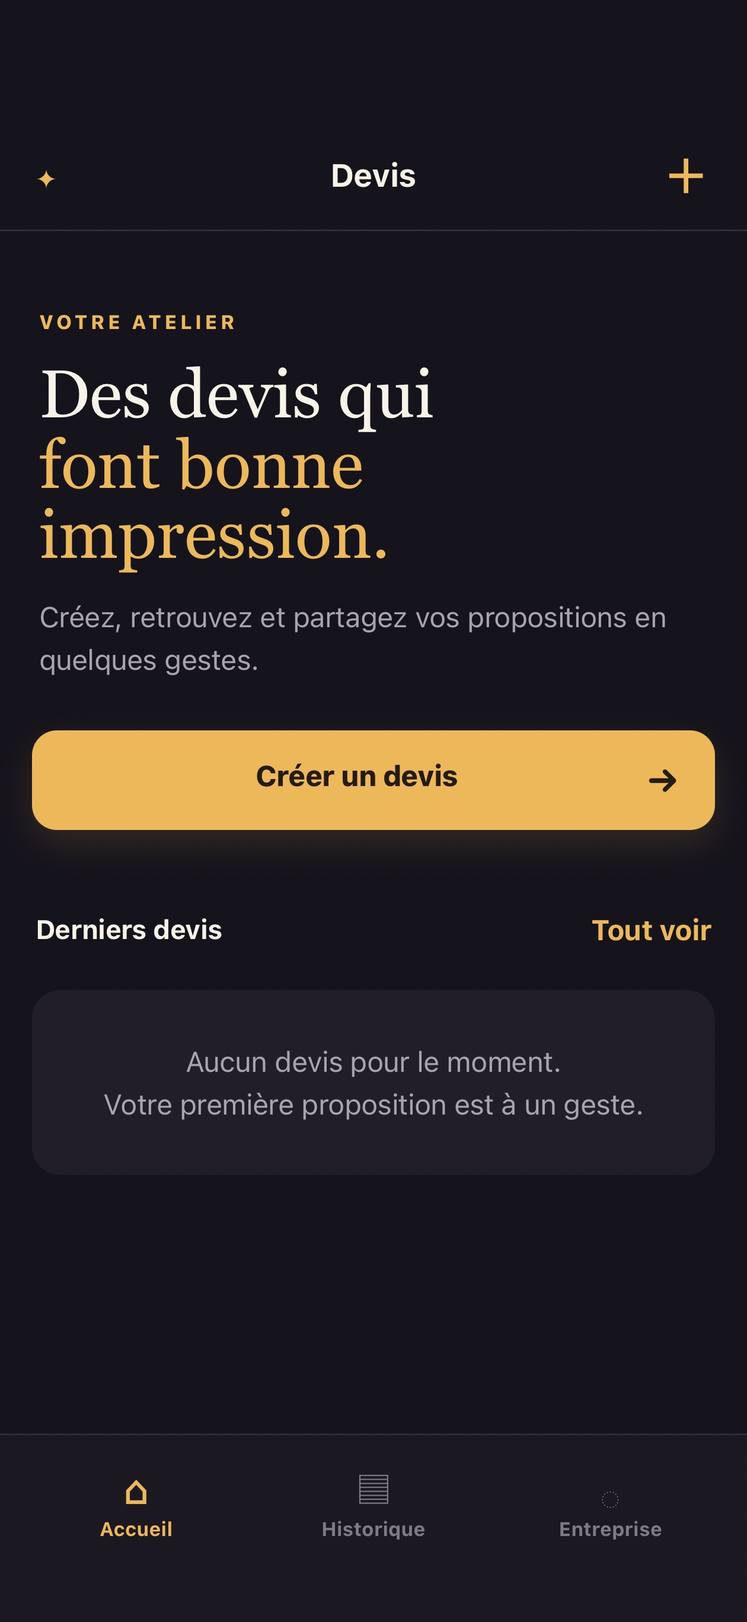
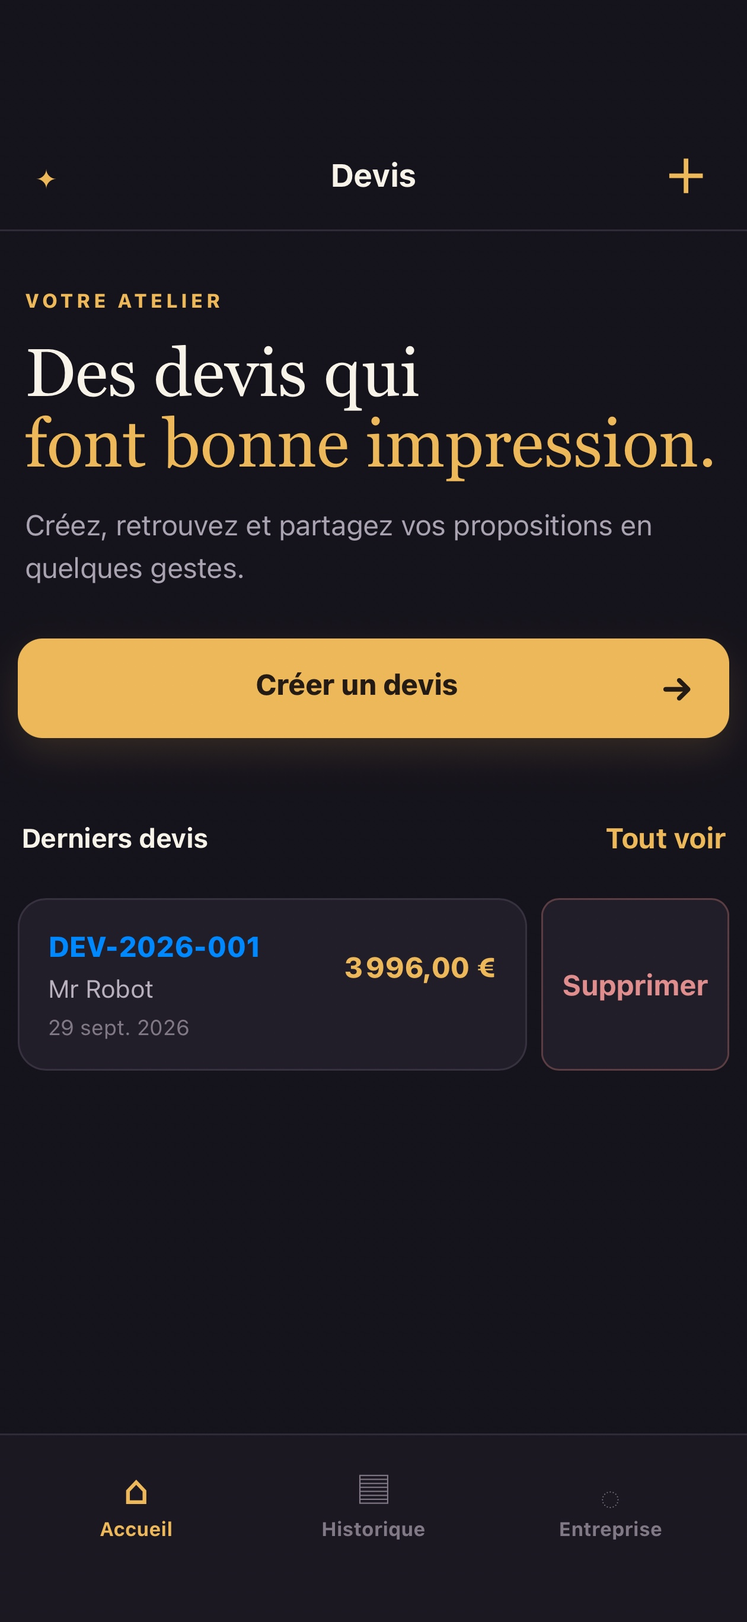
Publie Créateur de devis

diff --git a/createur-de-devis/app.js b/createur-de-devis/app.js
@@ -8,28 +8,29 @@ function toast(msg){const t=$('#toast');t.textContent=msg;t.classList.add('show'
 function dateFr(v){if(!v)return '—';return new Date(v+'T12:00:00').toLocaleDateString('fr-FR',{day:'numeric',month:'short',year:'numeric'});}
 function totals(q){const sub=q.lines.reduce((a,l)=>a+(Number(l.qty)||0)*(Number(l.price)||0),0), rem=sub*(Number(q.discount)||0)/100, net=sub-rem, vat=net*(Number(q.vat)||0)/100;return {sub,rem,net,vat,total:net+vat};}
 function nextRef(){const y=new Date().getFullYear();return `DEV-${y}-${String(state.quotes.length+1).padStart(3,'0')}`}
-function showView(name){$$('.view').forEach(v=>v.classList.toggle('active',v.id===name+'View'));$$('.tab').forEach(t=>t.classList.toggle('active',t.dataset.tab===name));$('#headerAction').style.display=name==='home'||name==='history'?'block':'none';$('#pageTitle').textContent=name==='company'?'Entreprise':name==='history'?'Historique':name==='editor'?'Nouveau devis':name==='detail'?'Devis':'Devis';$('#app').scrollTop=0;}
-function quoteCard(q){const x=totals(q);const d=document.createElement('button');d.className='quote-card';d.type='button';d.dataset.open=q.id;d.innerHTML=`<span class="quote-ref">${esc(q.reference)}</span><span class="quote-total">${euro(x.total)}</span><span class="quote-client">${esc(q.clientName||'Client non renseigné')}</span><span class="quote-date">${dateFr(q.date)}</span>`;return d}
+function showView(name){$$('.view').forEach(v=>v.classList.toggle('active',v.id===name+'View'));$$('.tab').forEach(t=>t.classList.toggle('active',t.dataset.tab===name));$('#headerAction').style.display=name==='home'||name==='history'?'block':'none';$('#pageTitle').textContent=name==='company'?'Entreprise':name==='history'?'Historique':name==='editor'?'Nouveau devis':name==='detail'?'Devis':'Devis';$('#app').style.transform='translateX(0)';$('#app').scrollTop=0;}
+function quoteCard(q){const x=totals(q);const wrap=document.createElement('div');wrap.className='quote-entry';const d=document.createElement('button');d.className='quote-card';d.type='button';d.dataset.open=q.id;d.innerHTML=`<span class="quote-ref">${esc(q.reference)}</span><span class="quote-total">${euro(x.total)}</span><span class="quote-client">${esc(q.clientName||'Client non renseigné')}</span><span class="quote-date">${dateFr(q.date)}</span>`;const del=document.createElement('button');del.className='quote-delete';del.type='button';del.dataset.delete=q.id;del.setAttribute('aria-label',`Supprimer le devis ${q.reference}`);del.textContent='Supprimer';wrap.append(d,del);return wrap}
 function renderLists(){['recentQuotes','allQuotes'].forEach(id=>{const el=$('#'+id);el.replaceChildren();const arr=id==='recentQuotes'?state.quotes.slice(-3).reverse():[...state.quotes].reverse();if(!arr.length){el.innerHTML='<div class="empty">Aucun devis pour le moment.<br>Votre première proposition est à un geste.</div>';}else arr.forEach(q=>el.append(quoteCard(q)));});}
 function esc(s){return String(s??'').replace(/[&<>"']/g,c=>({'&':'&amp;','<':'&lt;','>':'&gt;','"':'&quot;',"'":'&#039;'}[c]));}
 function fillCompany(){const f=$('#companyForm');Object.entries(state.company||{}).forEach(([k,v])=>{if(f.elements[k]&&k!=='logo')f.elements[k].value=v||'';});$('#logoName').textContent=state.company.logoName?`Logo sélectionné : ${state.company.logoName}`:'';}
-function openEditor(q){editingId=q?.id||null;showView('editor');$('#editLabel').textContent=q?'MODIFIER LE DEVIS':'NOUVEAU DEVIS';const f=$('#quoteForm');f.reset();f.elements.reference.value=q?.reference||nextRef();f.elements.date.value=q?.date||new Date().toISOString().slice(0,10);f.elements.validity.value=q?.validity||30;f.elements.discount.value=q?.discount??0;f.elements.vat.value=q?.vat??20;f.elements.clientName.value=q?.clientName||'';f.elements.clientEmail.value=q?.clientEmail||'';f.elements.clientAddress.value=q?.clientAddress||'';f.elements.terms.value=q?.terms||'';f.elements.note.value=q?.note||'';const lines=$('#lineItems');lines.replaceChildren();(q?.lines?.length?q.lines:[{description:'',qty:1,price:0}]).forEach(addLine);updateTotals();}
+function openEditor(q){editingId=q?.id||null;showView('editor');$('#editLabel').textContent=q?'MODIFIER LE DEVIS':'NOUVEAU DEVIS';const f=$('#quoteForm');f.reset();f.elements.reference.value=q?.reference||nextRef();f.elements.date.value=q?.date||new Date().toISOString().slice(0,10);f.elements.validity.value=q?.validity||30;f.elements.discount.value=q?.discount??0;f.elements.vat.value=q?.vat??20;f.elements.recipientCompany.value=q?.recipientCompany||'';f.elements.clientName.value=q?.clientName||'';f.elements.clientEmail.value=q?.clientEmail||'';f.elements.clientAddress.value=q?.clientAddress||'';f.elements.terms.value=q?.terms||'';f.elements.note.value=q?.note||'';const lines=$('#lineItems');lines.replaceChildren();(q?.lines?.length?q.lines:[{description:'',qty:1,price:0}]).forEach(addLine);updateTotals();}
 function addLine(line={description:'',qty:1,price:0}){const el=document.createElement('div');el.className='line';el.innerHTML=`<button type="button" class="remove" aria-label="Supprimer cette ligne">×</button><div class="line-grid"><label>Description<input class="desc" required value="${esc(line.description)}" placeholder="Prestation ou produit"></label><label>Quantité<input class="qty" type="number" min="0" step="0.01" value="${line.qty}"></label></div><div class="line-unit"><label>Prix unitaire HT<input class="price" type="number" min="0" step="0.01" value="${line.price}"></label><div class="line-subtotal"><small>Sous-total</small><strong>${euro((line.qty||0)*(line.price||0))}</strong></div></div>`;el.querySelector('.remove').addEventListener('click',()=>{if($$('.line').length>1){el.remove();updateTotals();}});el.querySelectorAll('input').forEach(i=>i.addEventListener('input',updateTotals));$('#lineItems').append(el);}
 function readLines(){return $$('.line').map(el=>({description:el.querySelector('.desc').value,qty:Number(el.querySelector('.qty').value)||0,price:Number(el.querySelector('.price').value)||0}));}
 function updateTotals(){const f=$('#quoteForm');const q={lines:readLines(),discount:f.elements.discount?.value||0,vat:f.elements.vat?.value||0};const x=totals(q);$$('.line').forEach(el=>el.querySelector('.line-subtotal strong').textContent=euro((Number(el.querySelector('.qty').value)||0)*(Number(el.querySelector('.price').value)||0)));$('#liveTotals').innerHTML=`<div class="total-row"><span>Sous-total HT</span><strong>${euro(x.sub)}</strong></div><div class="total-row"><span>Remise</span><strong>− ${euro(x.rem)}</strong></div><div class="total-row"><span>TVA (${Number(q.vat)||0} %)</span><strong>${euro(x.vat)}</strong></div><div class="total-row grand"><span>Total TTC</span><strong>${euro(x.total)}</strong></div>`;}
-function preview(q){const x=totals(q),c=state.company||{};const company=[c.name?`<strong>${esc(c.name)}</strong>`:'',c.address,[c.zip,c.city].filter(Boolean).join(' '),c.email?'e-mail : '+c.email:'',c.phone?'TEL : '+c.phone:''].filter(Boolean).map((v,i)=>i===0?v:esc(v)).join('<br>');const legal=[c.name,c.legalForm,c.capital?'Capital : '+c.capital:'',c.address,[c.zip,c.city].filter(Boolean).join(' '),c.siret?'SIRET : '+c.siret:'',c.vatNumber?'TVA : '+c.vatNumber:'',c.phone?'TEL : '+c.phone:'',c.email?'e-mail : '+c.email:''].filter(Boolean).map(esc).join(' · ');const logo=c.logo?`<img class="p-logo" src="${esc(c.logo)}" alt="Logo de l’entreprise">`:'';const rows=q.lines.map(l=>`<tr><td>${esc(l.description)}</td><td>${l.qty}</td><td>${euro(l.price)}</td><td>${euro(l.qty*l.price)}</td></tr>`).join('');return `<div class="preview" id="apercu"><div class="p-head"><div><h2>DEVIS</h2><small>${esc(q.reference)} · émis le ${dateFr(q.date)}<br>Valable ${q.validity} jours</small>${q.clientName?`<div style="margin-top:10px"><strong>${esc(q.clientName)}</strong></div>`:''}</div><div style="text-align:right;font-size:12px">${logo}${company||'Votre entreprise'}</div></div><h3>Pour</h3><div>${esc(q.clientName)}${q.clientEmail?'<br>'+esc(q.clientEmail):''}${q.clientAddress?'<br>'+esc(q.clientAddress).replace(/\n/g,'<br>'):''}</div><table><thead><tr><th>Désignation</th><th>Qté</th><th>PU HT</th><th>Total HT</th></tr></thead><tbody>${rows}</tbody></table><div class="p-total"><div><span>Sous-total HT</span><span>${euro(x.sub)}</span></div><div><span>Remise</span><span>− ${euro(x.rem)}</span></div><div><span>TVA (${q.vat} %)</span><span>${euro(x.vat)}</span></div><div class="big"><span>Total TTC</span><span>${euro(x.total)}</span></div></div>${q.terms?`<div class="terms"><b>Conditions de paiement</b><br>${esc(q.terms)}</div>`:''}${q.note?`<div class="terms">${esc(q.note)}</div>`:''}<div class="p-footer">${legal||'Informations légales de l’entreprise'}</div></div>`}
-function previewText(q){const x=totals(q);const lines=q.lines.map(l=>`- ${l.description} — ${l.qty} × ${euro(l.price)} = ${euro(l.qty*l.price)}`).join('\n');return `DEVIS ${q.reference}\nÉmis le ${dateFr(q.date)} · Valable ${q.validity} jours\n\nPour : ${q.clientName}${q.clientEmail?'\n'+q.clientEmail:''}${q.clientAddress?'\n'+q.clientAddress:''}\n\n${lines}\n\nSous-total HT : ${euro(x.sub)}\nRemise : − ${euro(x.rem)}\nTVA (${q.vat} %) : ${euro(x.vat)}\nTOTAL TTC : ${euro(x.total)}${q.terms?'\n\nConditions de paiement\n'+q.terms:''}${q.note?'\n\n'+q.note:''}`;}
-function openDetail(id){detailId=id;const q=state.quotes.find(x=>x.id===id);if(!q)return;showView('detail');$('#detailContent').innerHTML=`<p class="eyebrow">${esc(q.reference)}</p><h2 id="detailHeading" style="font-family:Georgia,serif;font-size:30px;margin:0 0 4px">${esc(q.clientName)}</h2><p class="muted">${dateFr(q.date)} · ${euro(totals(q).total)} TTC</p>${preview(q)}<div style="display:flex;gap:8px;margin-top:12px"><button class="outline" id="editDetail">Modifier</button><button class="outline" id="duplicateDetail">Dupliquer</button></div><button class="danger" id="deleteDetail">Supprimer ce devis</button>`;const logo=$('#apercu .p-logo');if(logo)logo.addEventListener('error',()=>logo.remove());$('#editDetail').onclick=()=>openEditor(q);$('#duplicateDetail').onclick=()=>{const copy=JSON.parse(JSON.stringify(q));copy.id=crypto.randomUUID?crypto.randomUUID():String(Date.now());copy.reference=nextRef();state.quotes.push(copy);save();renderLists();openDetail(copy.id);toast('Devis dupliqué')};$('#deleteDetail').onclick=()=>{if(confirm('Supprimer ce devis ?')){state.quotes=state.quotes.filter(x=>x.id!==id);save();renderLists();showView('history');toast('Devis supprimé')}}}
+function preview(q){const x=totals(q),c=state.company||{};const company=[c.name?`<strong>${esc(c.name)}</strong>`:'',c.address,[c.zip,c.city].filter(Boolean).join(' '),c.email?'e-mail : '+c.email:'',c.phone?'TEL : '+c.phone:''].filter(Boolean).map((v,i)=>i===0?v:esc(v)).join('<br>');const legal=[c.name,c.legalForm,c.capital?'Capital : '+c.capital:'',c.address,[c.zip,c.city].filter(Boolean).join(' '),c.siret?'SIRET : '+c.siret:'',c.vatNumber?'TVA : '+c.vatNumber:'',c.phone?'TEL : '+c.phone:'',c.email?'e-mail : '+c.email:''].filter(Boolean).map(esc).join(' · ');const logo=c.logo?`<img class="p-logo" src="${esc(c.logo)}" alt="Logo de l’entreprise">`:'';const rows=q.lines.map(l=>`<tr><td>${esc(l.description)}</td><td>${l.qty}</td><td>${euro(l.price)}</td><td>${euro(l.qty*l.price)}</td></tr>`).join('');return `<div class="preview" id="apercu"><div class="p-head"><div><h2>DEVIS</h2><small>${esc(q.reference)} · émis le ${dateFr(q.date)}<br>Valable ${q.validity} jours</small>${q.recipientCompany?`<div style="margin-top:10px"><strong>${esc(q.recipientCompany)}</strong></div>`:''}</div><div style="text-align:right;font-size:12px">${logo}${company||'Votre entreprise'}</div></div><h3>Pour</h3><div>${q.recipientCompany?`<strong>${esc(q.recipientCompany)}</strong><br>`:''}${esc(q.clientName)}${q.clientEmail?'<br>'+esc(q.clientEmail):''}${q.clientAddress?'<br>'+esc(q.clientAddress).replace(/\n/g,'<br>'):''}</div><table><thead><tr><th>Désignation</th><th>Qté</th><th>PU HT</th><th>Total HT</th></tr></thead><tbody>${rows}</tbody></table><div class="p-total"><div><span>Sous-total HT</span><span>${euro(x.sub)}</span></div><div><span>Remise</span><span>− ${euro(x.rem)}</span></div><div><span>TVA (${q.vat} %)</span><span>${euro(x.vat)}</span></div><div class="big"><span>Total TTC</span><span>${euro(x.total)}</span></div></div>${q.terms?`<div class="terms"><b>Conditions de paiement</b><br>${esc(q.terms)}</div>`:''}${q.note?`<div class="terms">${esc(q.note)}</div>`:''}<div class="p-footer">${legal||'Informations légales de l’entreprise'}</div></div>`}
+function previewText(q){const x=totals(q);const lines=q.lines.map(l=>`- ${l.description} — ${l.qty} × ${euro(l.price)} = ${euro(l.qty*l.price)}`).join('\n');return `DEVIS ${q.reference}\nÉmis le ${dateFr(q.date)} · Valable ${q.validity} jours\n\nPour : ${q.recipientCompany?`\n${q.recipientCompany}`:''}\n${q.clientName}${q.clientEmail?'\n'+q.clientEmail:''}${q.clientAddress?'\n'+q.clientAddress:''}\n\n${lines}\n\nSous-total HT : ${euro(x.sub)}\nRemise : − ${euro(x.rem)}\nTVA (${q.vat} %) : ${euro(x.vat)}\nTOTAL TTC : ${euro(x.total)}${q.terms?'\n\nConditions de paiement\n'+q.terms:''}${q.note?'\n\n'+q.note:''}`;}
+function openDetail(id){detailId=id;const q=state.quotes.find(x=>x.id===id);if(!q)return;showView('detail');$('#detailContent').innerHTML=`<p class="eyebrow">${esc(q.reference)}</p><h2 id="detailHeading" style="font-family:Georgia,serif;font-size:30px;margin:0 0 4px">${esc(q.recipientCompany||q.clientName)}</h2><p class="muted">${dateFr(q.date)} · ${euro(totals(q).total)} TTC</p>${preview(q)}<div style="display:flex;gap:8px;margin-top:12px"><button class="outline" id="editDetail">Modifier</button><button class="outline" id="duplicateDetail">Dupliquer</button></div><button class="danger" id="deleteDetail">Supprimer ce devis</button>`;const logo=$('#apercu .p-logo');if(logo)logo.addEventListener('error',()=>logo.remove());$('#editDetail').onclick=()=>openEditor(q);$('#duplicateDetail').onclick=()=>{const copy=JSON.parse(JSON.stringify(q));copy.id=crypto.randomUUID?crypto.randomUUID():String(Date.now());copy.reference=nextRef();state.quotes.push(copy);save();renderLists();openDetail(copy.id);toast('Devis dupliqué')};$('#deleteDetail').onclick=()=>deleteQuote(id,'history')}
+function deleteQuote(id,view='history'){const q=state.quotes.find(x=>x.id===id);if(!q)return;const old=$('#deleteConfirm');if(old)old.remove();const dialog=document.createElement('div');dialog.id='deleteConfirm';dialog.setAttribute('role','dialog');dialog.setAttribute('aria-modal','true');dialog.setAttribute('aria-labelledby','deleteConfirmTitle');dialog.style.cssText='position:fixed;inset:0;z-index:20;background:#15131bcc;display:flex;align-items:center;justify-content:center;padding:20px';dialog.innerHTML=`<div style="width:min(100%,360px);background:#211e29;border:1px solid #5b3d43;border-radius:16px;padding:22px;box-shadow:0 16px 40px #0008"><h2 id="deleteConfirmTitle" style="font-size:19px;margin:0 0 10px">Supprimer ce devis ?</h2><p style="color:#b9b1bd;line-height:1.45;margin:0 0 20px">Le devis « ${esc(q.reference)} » sera supprimé définitivement de cet appareil.</p><div style="display:flex;gap:10px;justify-content:flex-end"><button type="button" data-cancel-delete style="min-height:44px;border:1px solid #5b4c3c;border-radius:10px;background:transparent;color:#edb85a;padding:0 14px;font-weight:700">Annuler</button><button type="button" data-confirm-delete style="min-height:44px;border:0;border-radius:10px;background:#df8e8e;color:#241b15;padding:0 14px;font-weight:800">Supprimer</button></div></div>`;document.body.append(dialog);const close=()=>dialog.remove();dialog.querySelector('[data-cancel-delete]').addEventListener('click',close);dialog.querySelector('[data-confirm-delete]').addEventListener('click',()=>{state.quotes=state.quotes.filter(x=>x.id!==id);save();renderLists();close();showView(view);toast('Devis supprimé')});dialog.addEventListener('click',e=>{if(e.target===dialog)close()});dialog.querySelector('[data-confirm-delete]').focus();}
 function formObject(f){return Object.fromEntries(new FormData(f).entries())}
 $('#companyForm').addEventListener('submit',e=>{e.preventDefault();const data=formObject(e.target);data.logo=state.company.logo||'';data.logoName=state.company.logoName||'';state.company=data;save();$('#companySaved').textContent='Coordonnées enregistrées ✓';toast('Entreprise mise à jour');});
 $('#logoPicker').addEventListener('click',async()=>{try{const picked=await creativeBoard.media.file();if(picked){state.company.logo=picked.dataUrl;state.company.logoName=picked.name||'fichier importé';save();$('#logoName').textContent=`Logo sélectionné : ${state.company.logoName}`;toast('Logo importé')}}catch(e){toast('Import du logo indisponible : '+e)}});
 $('#quoteForm').addEventListener('submit',e=>{e.preventDefault();const d=formObject(e.target);const q={...d,id:editingId||((crypto.randomUUID&&crypto.randomUUID())||String(Date.now())),lines:readLines(),discount:Number(d.discount)||0,vat:Number(d.vat)||0,validity:Number(d.validity)||30};const ix=state.quotes.findIndex(x=>x.id===q.id);if(ix>=0)state.quotes[ix]=q;else state.quotes.push(q);save();renderLists();openDetail(q.id);toast('Devis enregistré');});
 $('#addLine').onclick=()=>addLine();$$('#quoteForm input').forEach(i=>i.addEventListener('input',updateTotals));
 $('#newQuoteBtn').onclick=()=>openEditor();$('#headerAction').onclick=()=>openEditor();$('#cancelEdit').onclick=()=>showView('home');$('#closeDetail').onclick=()=>showView('history');
-$('#app').addEventListener('click',e=>{const card=e.target.closest('.quote-card');if(card)openDetail(card.dataset.open);});
+$('#app').addEventListener('click',e=>{const del=e.target.closest('[data-delete]');if(del){e.stopPropagation();deleteQuote(del.dataset.delete,'history');return}const card=e.target.closest('.quote-card');if(card)openDetail(card.dataset.open);});
 $('#savePdf').onclick=async()=>{try{const q=state.quotes.find(x=>x.id===detailId);const r=await creativeBoard.document.export({format:'pdf',title:q.reference,destination:'save',element:'#apercu'});if(r.completed!==false)toast('PDF prêt à enregistrer')}catch(e){toast('Export PDF indisponible : '+e)}};
 $('#shareQuote').onclick=async()=>{try{const q=state.quotes.find(x=>x.id===detailId);const r=await creativeBoard.document.export({format:'pdf',title:q.reference,destination:'share',element:'#apercu'});if(r.completed!==false)toast('PDF prêt à partager')}catch(e){toast('Partage du PDF indisponible : '+e)}};
 $$('[data-tab]').forEach(b=>b.addEventListener('click',()=>{showView(b.dataset.tab);renderLists()}));
 $$('.tab').forEach(b=>b.addEventListener('click',()=>showView(b.dataset.tab)));
 fillCompany();renderLists();showView('home');
-$('#app').addEventListener('touchstart',e=>{const t=e.touches[0];if(t.clientX<=28)touch={x:t.clientX,y:t.clientY,dx:0,locked:false};});$('#app').addEventListener('touchmove',e=>{if(!touch||touch.locked)return;const t=e.touches[0];const dx=t.clientX-touch.x,dy=Math.abs(t.clientY-touch.y);if(dy>Math.abs(dx)){touch.locked=true;return}if(dx>0){touch.dx=dx;$('#app').style.transform=`translateX(${dx}px)`;}});$('#app').addEventListener('touchend',()=>{if(!touch)return;const go=touch.dx>innerWidth*.45;$('#app').style.transition='transform .22s ease';$('#app').style.transform=go?'translateX(100%)':'translateX(0)';if(go){setTimeout(()=>{showView(detailId?'history':'home');$('#app').style.transition='';},180)}else setTimeout(()=>{$('#app').style.transition='';},220);touch=null;});
+$('#app').addEventListener('touchstart',e=>{const t=e.touches[0];if(t.clientX<=28)touch={x:t.clientX,y:t.clientY,dx:0,locked:false};});$('#app').addEventListener('touchmove',e=>{if(!touch||touch.locked)return;const t=e.touches[0],dx=t.clientX-touch.x,dy=Math.abs(t.clientY-touch.y);if(dy>Math.abs(dx)){touch.locked=true;return}if(dx>0){touch.dx=dx;$('#app').style.transform=`translateX(${dx}px)`;}});$('#app').addEventListener('touchend',()=>{if(!touch)return;const go=touch.dx>innerWidth*.45;$('#app').style.transition='transform .22s ease';$('#app').style.transform=go?'translateX(100%)':'translateX(0)';if(go){setTimeout(()=>{showView(detailId?'history':'home');$('#app').style.transition='';},180)}else setTimeout(()=>{$('#app').style.transition='';},220);touch=null;});

diff --git a/createur-de-devis/app.css b/createur-de-devis/app.css
@@ -1,3 +1,1 @@
-*{box-sizing:border-box}html,body{margin:0;min-height:100%;background:#15131b;color:#f8f3e9;font-family:-apple-system,BlinkMacSystemFont,"Segoe UI",sans-serif}body{overflow-x:hidden}button,input,textarea{font:inherit}button{cursor:pointer;touch-action:manipulation}.topbar{height:calc(62px + env(safe-area-inset-top));padding:env(safe-area-inset-top) 18px 0;display:flex;align-items:center;justify-content:center;position:sticky;top:0;z-index:5;background:#15131b;border-bottom:1px solid #302b38;user-select:none}.topbar h1{font-size:18px;margin:0;font-weight:700;letter-spacing:.01em}.brand-mark{position:absolute;left:20px;color:#edb85a;font-size:20px}.icon-btn{position:absolute;right:12px;background:none;border:0;color:#edb85a;font-size:31px;line-height:44px;width:44px;height:44px}.scroll-area{max-width:680px;margin:auto;padding:14px 10px calc(104px + env(safe-area-inset-bottom))}.view{display:none}.view.active{display:block}.hero{padding:18px 4px 28px}.eyebrow{color:#edb85a;font-size:11px;letter-spacing:.16em;font-weight:800;margin:0 0 14px}.hero h2,.view-intro h2{font-family:Georgia,serif;font-size:38px;line-height:1.04;margin:0 0 14px;font-weight:500}.hero h2 em{color:#edb85a;font-style:normal}.muted{color:#aaa3b1;line-height:1.5;margin:0}.primary{min-height:50px;border:0;border-radius:14px;background:#edb85a;color:#241b15;font-weight:800;padding:0 20px;width:100%;box-shadow:0 8px 20px #edb85a22}.primary span{float:right;font-size:20px}.large{min-height:56px}.section-head{display:flex;align-items:center;justify-content:space-between;margin:34px 2px 12px}.section-head h3{margin:0;font-size:15px}.text-btn,.back-btn{color:#edb85a;background:none;border:0;min-height:44px;padding:8px 0;font-weight:700}.stack{display:grid;gap:10px}.quote-card{background:#211e29;border:1px solid #37313f;border-radius:16px;padding:16px;display:grid;grid-template-columns:1fr auto;gap:5px 12px}.quote-card:active{background:#2b2634}.quote-ref{font-weight:800}.quote-client{color:#b9b1bd;font-size:14px}.quote-total{grid-row:1/3;grid-column:2;align-self:center;color:#edb85a;font-weight:800}.quote-date{font-size:12px;color:#817985}.empty{padding:28px 18px;background:#211e29;border-radius:16px;color:#aaa3b1;text-align:center;line-height:1.5}.view-intro{padding:14px 4px 24px}.view-intro h2{font-size:36px}.form-card{background:#211e29;border:1px solid #37313f;border-radius:16px;padding:18px;margin:12px 0}.form-card label{display:block;color:#b9b1bd;font-size:13px;margin-bottom:15px}.form-card label:last-of-type{margin-bottom:2px}.form-card input,.form-card textarea{display:block;width:100%;margin-top:7px;background:#17151d;border:1px solid #403949;border-radius:10px;color:#f8f3e9;padding:12px 13px;min-height:46px;outline:none}.form-card textarea{resize:vertical;min-height:72px}.form-card input:focus,.form-card textarea:focus{border-color:#edb85a}.two-col{display:grid;grid-template-columns:1fr 1fr;gap:12px}.optional{font-size:11px;color:#77707e}.saved-note{color:#86c79c;font-size:13px;min-height:18px;margin:10px 0 0}.section-title{font-weight:800;margin-bottom:16px;color:#f8f3e9}.editor-top{display:flex;align-items:center;justify-content:space-between;margin:-10px 0 22px}.editor-top>span{font-size:11px;letter-spacing:.12em;color:#aaa3b1}.back-btn{font-size:16px}.line{border-bottom:1px solid #37313f;padding-bottom:14px;margin-bottom:14px;position:relative}.line:last-child{border-bottom:0}.line-grid{display:grid;grid-template-columns:1fr 82px;gap:9px}.line .remove{position:absolute;right:-8px;top:-11px;border:0;background:#342b37;color:#e8a4a4;border-radius:50%;width:30px;height:30px}.line-unit{display:grid;grid-template-columns:1fr 1fr;gap:9px;margin-top:9px}.line input{margin-top:6px}.line input{margin-top:6px}.outline{width:100%;min-height:46px;border-radius:11px;background:transparent;border:1px dashed #6f5e45;color:#edb85a;font-weight:700}.totals{border-top:1px solid #403949;padding-top:12px;margin-top:4px}.total-row{display:flex;justify-content:space-between;color:#b9b1bd;padding:4px 0}.total-row strong{color:#f8f3e9}.total-row.grand{font-size:19px;color:#f8f3e9;padding-top:10px}.total-row.grand strong{color:#edb85a}.detail-actions{display:flex;gap:7px}.small-btn{min-height:40px;border:1px solid #5b4c3c;border-radius:10px;background:#211e29;color:#edb85a;padding:0 12px;font-weight:700}.preview{background:#fff;color:#27232b;border-radius:3px;padding:12px 10px;box-shadow:none;margin-top:0;border:1px solid #ddd5c8}.preview h2{font-family:Georgia,serif;font-size:27px;margin:0;color:#28232b}.preview .p-head{display:flex;justify-content:space-between;border-bottom:2px solid #edb85a;padding-bottom:18px;margin-bottom:18px}.preview small{color:#736a76}.preview h3{font-size:16px;margin:18px 0 3px}.preview table{width:100%;border-collapse:collapse;font-size:12px;margin-top:20px}.preview th,.preview td{text-align:left;padding:9px 3px;border-bottom:1px solid #ddd5c8}.preview th:last-child,.preview td:last-child{text-align:right}.preview .p-total{margin:18px 0 0 auto;width:65%;font-size:13px}.preview .p-total div{display:flex;justify-content:space-between;padding:4px}.preview .p-total .big{font-size:18px;font-weight:800;border-top:2px solid #edb85a;margin-top:5px;padding-top:9px}.preview .terms{border-top:1px solid #ddd5c8;margin-top:22px;padding-top:12px;font-size:12px;white-space:pre-line}.preview .p-logo{max-width:92px;max-height:58px;object-fit:contain;display:block;margin:0 0 8px auto}.preview .p-footer{border-top:1px solid #ddd5c8;margin-top:24px;padding-top:9px;text-align:center;color:#736a76;font-size:10px;line-height:1.45}.danger{color:#df8e8e;background:none;border:0;min-height:44px;margin:12px auto;display:block}.tabbar{position:fixed;bottom:0;left:0;right:0;height:calc(72px + env(safe-area-inset-bottom));padding:5px 10px env(safe-area-inset-bottom);background:#1b1822;border-top:1px solid #302b38;display:flex;justify-content:space-around;z-index:6;user-select:none}.tab{border:0;background:none;color:#817985;min-width:80px;min-height:60px;font-size:11px;font-weight:700}.tab span{display:block;font-size:23px;height:29px}.tab.active{color:#edb85a}#toast{position:fixed;left:50%;bottom:calc(86px + env(safe-area-inset-bottom));transform:translate(-50%,20px);background:#f8f3e9;color:#211e29;border-radius:20px;padding:11px 18px;font-weight:700;font-size:13px;opacity:0;pointer-events:none;transition:.25s;z-index:10;white-space:nowrap}#toast.show{opacity:1;transform:translate(-50%,0)}@media(prefers-color-scheme:light){html,body{background:#fbf7ef;color:#29232b}.topbar{background:#fbf7ef;border-color:#e6ded2}.brand-mark,.icon-btn,.text-btn,.back-btn,.outline{color:#a96517}.primary{background:#d99538;color:#241b15}.muted{color:#756d77}.quote-card,.form-card,.tabbar,.small-btn{background:#fff;border-color:#e3d9cb}.form-card input,.form-card textarea{background:#fbf7ef;border-color:#d8cbbb;color:#29232b}.line{border-color:#e3d9cb}.total-row{color:#756d77}.preview{box-shadow:0 12px 30px #40311f22}.tabbar{border-color:#e3d9cb}.tab{color:#978e98}.tab.active{color:#a96517}.quote-total,.total-row.grand strong{color:#a96517}.empty{background:#fff;border:1px solid #e3d9cb;color:#756d77}}
-@media(max-width:360px){.hero h2{font-size:33px}.two-col{gap:8px}.form-card{padding:14px}}
-@media print{html,body,#app,#detailView,#apercu{background:#fff!important;color:#27232b!important}.topbar,.tabbar,.editor-top,#toast,button{display:none!important}.scroll-area{padding:0}.view{display:none!important}.view.active{display:block!important}.preview{background:#fff!important;color:#27232b!important;box-shadow:none!important}}
+*{box-sizing:border-box}html,body{margin:0;min-height:100%;background:#15131b;color:#f8f3e9;font-family:-apple-system,BlinkMacSystemFont,"Segoe UI",sans-serif}body{overflow-x:hidden}button,input,textarea{font:inherit}button{cursor:pointer;touch-action:manipulation}.topbar{height:calc(62px + env(safe-area-inset-top));padding:env(safe-area-inset-top) 18px 0;display:flex;align-items:center;justify-content:center;position:sticky;top:0;z-index:5;background:#15131b;border-bottom:1px solid #302b38;user-select:none}.topbar h1{font-size:18px;margin:0;font-weight:700;letter-spacing:.01em}.brand-mark{position:absolute;left:20px;color:#edb85a;font-size:20px}.icon-btn{position:absolute;right:12px;background:none;border:0;color:#edb85a;font-size:31px;line-height:44px;width:44px;height:44px}.scroll-area{max-width:680px;margin:auto;padding:14px 10px calc(104px + env(safe-area-inset-bottom))}.view{display:none}.view.active{display:block}.hero{padding:18px 4px 28px}.eyebrow{color:#edb85a;font-size:11px;letter-spacing:.16em;font-weight:800;margin:0 0 14px}.hero h2,.view-intro h2{font-family:Georgia,serif;font-size:38px;line-height:1.04;margin:0 0 14px;font-weight:500}.hero h2 em{color:#edb85a;font-style:normal}.muted{color:#aaa3b1;line-height:1.5;margin:0}.primary{min-height:50px;border:0;border-radius:14px;background:#edb85a;color:#241b15;font-weight:800;padding:0 20px;width:100%;box-shadow:0 8px 20px #edb85a22}.primary span{float:right;font-size:20px}.large{min-height:56px}.section-head{display:flex;align-items:center;justify-content:space-between;margin:34px 2px 12px}.section-head h3{margin:0;font-size:15px}.text-btn,.back-btn{color:#edb85a;background:none;border:0;min-height:44px;padding:8px 0;font-weight:700}.stack{display:grid;gap:10px}.quote-entry{display:grid;grid-template-columns:1fr auto;gap:0 8px}.quote-card{width:100%;text-align:left;background:#211e29;border:1px solid #37313f;border-radius:16px;padding:16px;display:grid;grid-template-columns:1fr auto;gap:5px 12px}.quote-card:active{background:#2b2634}.quote-ref{font-weight:800}.quote-client{color:#b9b1bd;font-size:14px}.quote-total{grid-row:1/3;grid-column:2;align-self:center;color:#edb85a;font-weight:800}.quote-date{font-size:12px;color:#817985}.quote-delete{border:1px solid #5b3d43;border-radius:10px;background:#211e29;color:#df8e8e;padding:0 11px;font-weight:700;min-height:44px}.empty{padding:28px 18px;background:#211e29;border-radius:16px;color:#aaa3b1;text-align:center;line-height:1.5}.view-intro{padding:14px 4px 24px}.view-intro h2{font-size:36px}.form-card{background:#211e29;border:1px solid #37313f;border-radius:16px;padding:18px;margin:12px 0;min-width:0;overflow:hidden}.form-card label{display:block;color:#b9b1bd;font-size:13px;margin-bottom:15px;min-width:0}.form-card label:last-of-type{margin-bottom:2px}.form-card input,.form-card textarea{display:block;width:100%;margin-top:7px;background:#17151d;border:1px solid #403949;border-radius:10px;color:#f8f3e9;padding:12px 13px;min-height:46px;outline:none;min-width:0;max-width:100%}.form-card input[type=date]{display:block;width:100%;min-width:0;max-width:100%;box-sizing:border-box;overflow:hidden;min-inline-size:0;max-inline-size:100%;inline-size:100%;-webkit-appearance:none;appearance:none}.form-card textarea{resize:vertical;min-height:72px}.form-card input:focus,.form-card textarea:focus{border-color:#edb85a}.two-col{display:grid;grid-template-columns:minmax(0,1fr) minmax(0,1fr);gap:12px}.two-col label{min-width:0}.two-col input[type=date]{padding-left:8px;padding-right:8px}.optional{font-size:11px;color:#77707e}.saved-note{color:#86c79c;font-size:13px;min-height:18px;margin:10px 0 0}.section-title{font-weight:800;margin-bottom:16px;color:#f8f3e9}.editor-top{display:flex;align-items:center;justify-content:space-between;margin:-10px 0 22px}.editor-top>span{font-size:11px;letter-spacing:.12em;color:#aaa3b1}.back-btn{font-size:16px}.line{border-bottom:1px solid #37313f;padding-bottom:14px;margin-bottom:14px;position:relative}.line:last-child{border-bottom:0}.line-grid{display:grid;grid-template-columns:1fr 82px;gap:9px}.line .remove{position:absolute;right:-8px;top:-11px;border:0;background:#342b37;color:#e8a4a4;border-radius:50%;width:30px;height:30px}.line-unit{display:grid;grid-template-columns:1fr 1fr;gap:9px;margin-top:9px}.line input{margin-top:6px}.line input{margin-top:6px}.outline{width:100%;min-height:46px;border-radius:11px;background:transparent;border:1px dashed #6f5e45;color:#edb85a;font-weight:700}.totals{border-top:1px solid #403949;padding-top:12px;margin-top:4px}.total-row{display:flex;justify-content:space-between;color:#b9b1bd;padding:4px 0}.total-row strong{color:#f8f3e9}.total-row.grand{font-size:19px;color:#f8f3e9;padding-top:10px}.total-row.grand strong{color:#edb85a}.detail-actions{display:flex;gap:7px}.small-btn{min-height:40px;border:1px solid #5b4c3c;border-radius:10px;background:#211e29;color:#edb85a;padding:0 12px;font-weight:700}.preview{background:#fff;color:#27232b;border-radius:3px;padding:12px 10px;box-shadow:none;margin-top:0;border:1px solid #ddd5c8}.preview h2{font-family:Georgia,serif;font-size:27px;margin:0;color:#28232b}.preview .p-head{display:flex;justify-content:space-between;border-bottom:2px solid #edb85a;padding-bottom:18px;margin-bottom:18px}.preview small{color:#736a76}.preview h3{font-size:16px;margin:18px 0 3px}.preview table{width:100%;border-collapse:collapse;font-size:12px;margin-top:20px}.preview th,.preview td{text-align:left;padding:9px 3px;border-bottom:1px solid #ddd5c8}.preview th:last-child,.preview td:last-child{text-align:right}.preview .p-total{margin:18px 0 0 auto;width:65%;font-size:13px}.preview .p-total div{display:flex;justify-content:space-between;padding:4px}.preview .p-total .big{font-size:18px;font-weight:800;border-top:2px solid #edb85a;margin-top:5px;padding-top:9px}.preview .terms{border-top:1px solid #ddd5c8;margin-top:22px;padding-top:12px;font-size:12px;white-space:pre-line}.preview .p-logo{max-width:92px;max-height:58px;object-fit:contain;display:block;margin:0 0 8px auto}.preview .p-footer{border-top:1px solid #ddd5c8;margin-top:24px;padding-top:9px;text-align:center;color:#736a76;font-size:10px;line-height:1.45}.danger{color:#df8e8e;background:none;border:0;min-height:44px;margin:12px auto;display:block}.tabbar{position:fixed;bottom:0;left:0;right:0;height:calc(72px + env(safe-area-inset-bottom));padding:5px 10px env(safe-area-inset-bottom);background:#1b1822;border-top:1px solid #302b38;display:flex;justify-content:space-around;z-index:6;user-select:none}.tab{border:0;background:none;color:#817985;min-width:80px;min-height:60px;font-size:11px;font-weight:700}.tab span{display:block;font-size:23px;height:29px}.tab.active{color:#edb85a}#toast{position:fixed;left:50%;bottom:calc(86px + env(safe-area-inset-bottom));transform:translate(-50%,20px);background:#f8f3e9;color:#211e29;border-radius:20px;padding:11px 18px;font-weight:700;font-size:13px;opacity:0;pointer-events:none;transition:.25s;z-index:10;white-space:nowrap}#toast.show{opacity:1;transform:translate(-50%,0)}@media(prefers-color-scheme:light){html,body{background:#fbf7ef;color:#29232b}.topbar{background:#fbf7ef;border-color:#e6ded2}.brand-mark,.icon-btn,.text-btn,.back-btn,.outline{color:#a96517}.primary{background:#d99538;color:#241b15}.muted{color:#756d77}.quote-card,.form-card,.tabbar,.small-btn{background:#fff;border-color:#e3d9cb}.quote-delete{background:#fff;border-color:#e3cfd0}.form-card input,.form-card textarea{background:#fbf7ef;border-color:#d8cbbb;color:#29232b}.line{border-color:#e3d9cb}.total-row{color:#756d77}.preview{box-shadow:0 12px 30px #40311f22}.tabbar{border-color:#e3d9cb}.tab{color:#978e98}.tab.active{color:#a96517}.quote-total,.total-row.grand strong{color:#a96517}.empty{background:#fff;border:1px solid #e3d9cb;color:#756d77}}@media(max-width:360px){.hero h2{font-size:33px}.two-col{gap:8px}.form-card{padding:14px}}@media print{html,body,#app,#detailView,#apercu{background:#fff!important;color:#27232b!important}.topbar,.tabbar,.editor-top,#toast,button{display:none!important}.scroll-area{padding:0}.view{display:none!important}.view.active{display:block!important}.preview{background:#fff!important;color:#27232b!important;box-shadow:none!important}}

diff --git a/createur-de-devis/index.html b/createur-de-devis/index.html
@@ -45,10 +45,11 @@
       <form id="quoteForm">
         <div class="form-card">
           <div class="section-title">Informations</div>
-          <div class="two-col"><label>Référence<input name="reference" required></label><label>Date<input name="date" type="date" required></label></div>
+          <label>Référence<input name="reference" required></label><label>Date<input name="date" type="date" required></label>
           <label>Validité (jours)<input name="validity" type="number" min="1" value="30" required></label>
         </div>
         <div class="form-card"><div class="section-title">Votre client</div>
+          <label>Société destinatrice<input name="recipientCompany" required placeholder="Nom de la société destinataire"></label>
           <label>Nom / entreprise<input name="clientName" required placeholder="Nom du client"></label>
           <label>Email <span class="optional">facultatif</span><input name="clientEmail" type="email" placeholder="client@exemple.fr"></label>
           <label>Adresse <span class="optional">facultatif</span><textarea name="clientAddress" rows="2" placeholder="Adresse de facturation"></textarea></label>

diff --git a/README.md b/README.md
@@ -14,5 +14,5 @@ Sous licence MIT.
 - **[Orange Marketplace](orange-marketplace/)** — Une app pour rechercher, comparer et découvrir les promotions des produits vendus sur la Marketplace Orange, avec des images nettes et bien visibles.
 - **[Estimation immobilière](estimation-immobiliere/)** — Évaluer indicativement le prix d’un bien situé en France à partir de son adresse, de ses caractéristiques et des ventes récentes de sa commune, puis retrouver localement les résultats complets enregistrés.
 - **[Tetris Sonique](tetris-sonique/)** — Un Tetris classique jouable sur iPhone avec des contrôles tactiles réactifs, du son, une musique désactivable séparément, un arrière-plan animé léger et la sauvegarde automatique de la partie en cours.
-- **[Créateur de devis](createur-de-devis/)** — Créer, enregistrer, modifier, prévisualiser et partager des devis professionnels au format PDF.
+- **[Créateur de devis](createur-de-devis/)** — Créer, gérer, prévisualiser, exporter et partager des devis professionnels en PDF avec historique local.
 <!-- fin de la liste -->

diff --git a/createur-de-devis/README.md b/createur-de-devis/README.md
@@ -1,16 +1,24 @@
 # Créateur de devis
 
-Créer, enregistrer, modifier, prévisualiser et partager des devis professionnels au format PDF.
+Créer, gérer, prévisualiser, exporter et partager des devis professionnels en PDF avec historique local.
 
 ![Capture](shots/1.jpg)
 
 ![Capture](shots/2.jpg)
 
+![Capture](shots/3.jpg)
+
+![Capture](shots/4.jpg)
+
+![Capture](shots/5.jpg)
+
+![Capture](shots/6.jpg)
+
 ## Ce que cette app demande
 
+- `files.pick`
 - `share.present`
 - `document.export`
-- `files.pick`
 
 ## Ce qu’elle peut contacter
 
